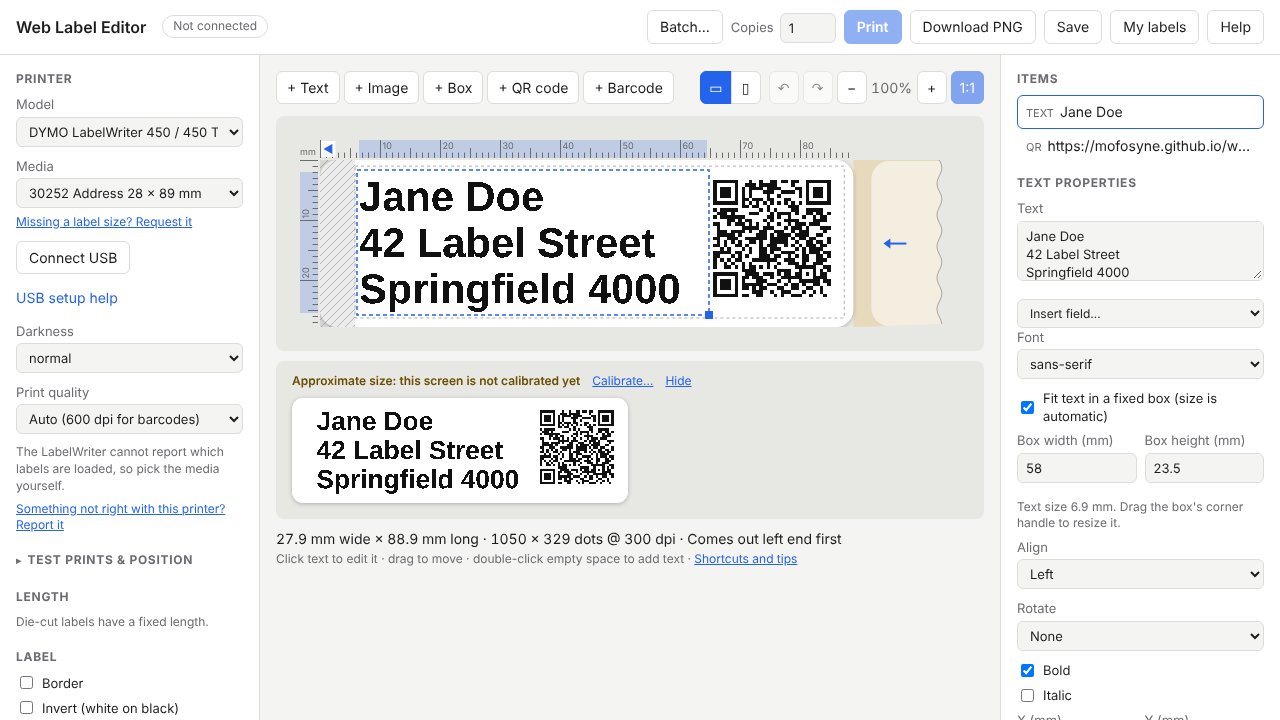
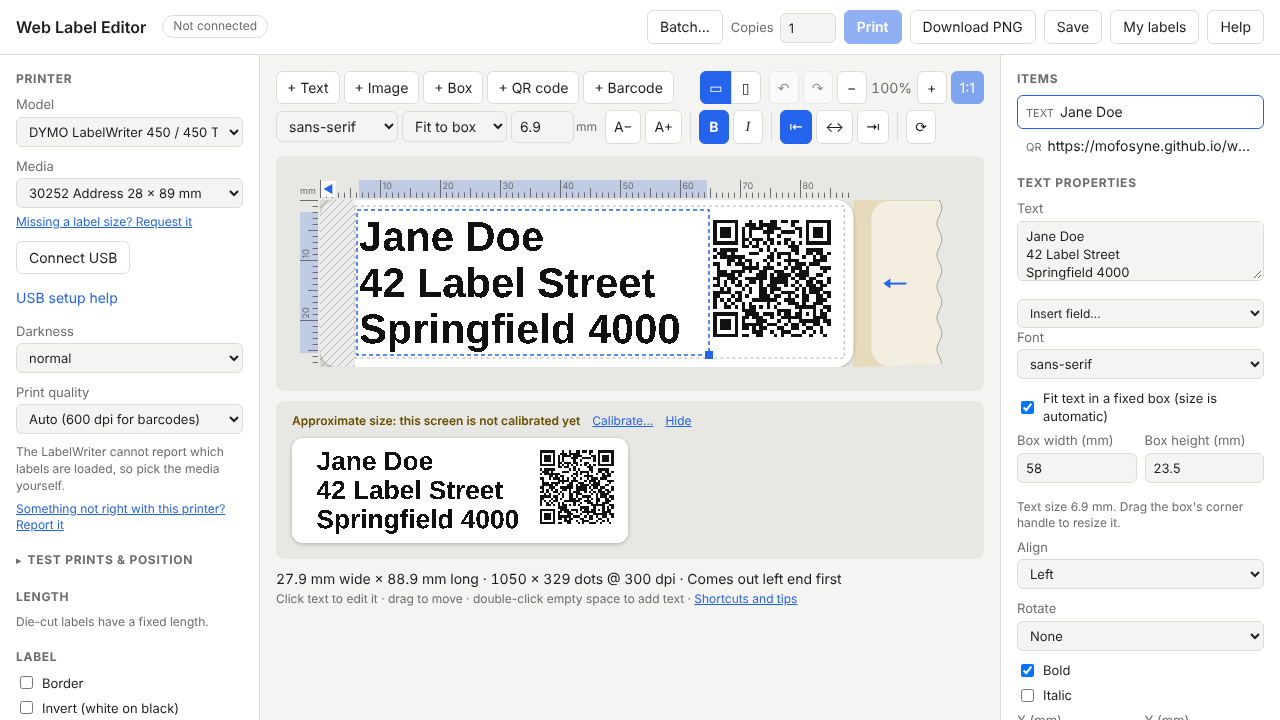
Warn on ink, not the font's line box; a DYMO-style text format bar
- Margin and cut-off warnings now use where items put ink: for text, each
  line's glyph extent (measureText's actual bounding box, turned with the
  text), not the font's line box, which keeps blank room above capitals
  and below the baseline. Capitals close to the edge no longer warn;
  descenders that cross it still do. Half a dot of slack for rounding.
- A format bar above the label, as in DYMO Label: font, Fit to box /
  Fixed size, size in mm, A− / A+, bold, italic, alignment and a quarter
  turn for the selected text. Always shown (greyed out without a text
  selected) so the layout doesn't jump; the right panel keeps everything.
  A size change on fitted text switches it to that fixed size where it is.

Claude-Session: https://claude.ai/code/session_01YQFkThD3TEfZZoGyfdA6sY

Changed region(s): [[0.2188, 0.1528, 0.75, 0.8556], [0.2188, 0.3361, 0.25, 0.3972]]

diff --git a/src/app.js b/src/app.js
@@ -385,6 +385,7 @@ function renderView(d = design, m = model(), med = medium(), { filled, adj, onAs
   }
 
   const bounds = d.items.map(() => null);
+  const inks = d.items.map(() => null);
   const textLayouts = d.items.map(() => null);
   const lanes = d.items.map(() => null);
   for (const s of slots) {
@@ -393,6 +394,8 @@ function renderView(d = design, m = model(), med = medium(), { filled, adj, onAs
       const i = d.items.indexOf(it);
       const b = s.r.bounds[j];
       bounds[i] = { ...b, x: b.x + s.ox, y: b.y + s.oy };
+      const ink = s.r.inks[j];
+      inks[i] = ink && { ...ink, x: ink.x + s.ox, y: ink.y + s.oy };
       lanes[i] = s.lane;
       const l = s.r.textLayouts[j];
       if (l) {
@@ -405,7 +408,7 @@ function renderView(d = design, m = model(), med = medium(), { filled, adj, onAs
   const hidden = d.items.length - shown.length;
   return {
     bitmap, display: upright ? stripToPage(bitmap) : bitmap, toDisplay, portrait: upright,
-    geo, slots, bounds, textLayouts, lanes, hidden, dpmm, mode: md,
+    geo, slots, bounds, inks, textLayouts, lanes, hidden, dpmm, mode: md,
   };
 }
 
@@ -468,6 +471,7 @@ function draw() {
   const med = medium();
   last = renderView(viewDesign(), m, med, { adj: adjust(), onAssetLoad: () => refresh(), laneItems: batchLaneItems() });
   updateDataBar();
+  syncFormatBar();
   const { display, dpmm, geo, slots, toDisplay } = last;
 
   if (zoomFit && !editing && !drag) editZoom = fitZoom(display, dpmm, last.portrait);
@@ -629,14 +633,15 @@ function draw() {
   $('dims').title = 'Hatched: the printer cannot print there. Dashed line: the safe area (from the label maker\'s driver); '
     + 'items past it still print, overprinting towards the label edge, but the die cut may trim them.'
     + (geo.top || geo.bottom || geo.right ? ' Tinted: the liner around the label, which an overprint border prints on.' : '');
-  // Font boxes include some blank space, so allow a little slack.
-  const slack = 0.3 * zoom;
+  // Checked against where items put ink (text: its glyphs, not the font's
+  // line box), with half a dot of slack for rounding.
+  const slack = 0.5 * scale;
   const outside = (b, a) => b.x * scale < a.x0 - slack || b.y * scale < a.y0 - slack
     || (b.y + b.h) * scale > a.y1 + slack || (b.x + b.w) * scale > a.x1 + slack;
-  const shownBounds = last.bounds.map((b, i) => (b ? { b, lane: last.lanes[i] } : null)).filter(Boolean);
+  const shownBounds = last.inks.map((b, i) => (b ? { b, lane: last.lanes[i] } : null)).filter(Boolean);
   const offLabel = shownBounds.some(({ b }) => outside(b, hard));
   // Name what is cut off, so it can be found and moved.
-  const cutOff = last.bounds.map((b, i) => (b && outside(b, hard) ? design.items[i] : null)).filter(Boolean);
+  const cutOff = last.inks.map((b, i) => (b && outside(b, hard) ? design.items[i] : null)).filter(Boolean);
   const kinds = { text: 'text', qr: 'QR code', barcode: 'barcode', image: 'image', box: 'box' };
   const short = (it) => {
     const s = it.type === 'text' ? it.text.split('\n')[0] : it.type === 'qr' || it.type === 'barcode' ? it.data : '';
@@ -2354,6 +2359,120 @@ function describe(item) {
   return `${item.w} × ${item.h} mm`;
 }
 
+// ---------- the text format bar ----------
+
+// Font, fit, size, bigger/smaller, bold, italic, alignment and turning for
+// the selected text, above the label as in DYMO Label. Always shown (greyed
+// out with no text selected) so the layout doesn't jump; built per
+// selection and kept in step by syncFormatBar() on every redraw.
+let formatFor = undefined;
+function buildFormatBar() {
+  const item = selected();
+  const text = item?.type === 'text' ? item : null;
+  if (formatFor === (text?.id ?? null) && $('format-bar').childElementCount) return syncFormatBar();
+  formatFor = text?.id ?? null;
+  const bar = $('format-bar');
+  const el = (tag, props = {}, ...kids) => {
+    const e = Object.assign(document.createElement(tag), props);
+    e.append(...kids);
+    return e;
+  };
+  const change = (fn) => () => {
+    const it = selected();
+    if (it?.type !== 'text') return;
+    fn(it);
+    undo.checkpoint();
+    refresh({ props: true });
+  };
+  const font = el('select', { ariaLabel: 'Font', title: 'Font' });
+  const fit = el('select', { ariaLabel: 'Text size', title: 'Fit to box: the text takes the largest size that fits its box' });
+  fit.append(new Option('Fit to box', 'fit'), new Option('Fixed size', 'fixed'));
+  const size = el('input', { type: 'number', step: 0.5, min: 0.5, ariaLabel: 'Size (mm)', title: 'Text size in mm' });
+  const button = (label, title, onClick, cls = '') => {
+    const b = el('button', { type: 'button', className: `icon ${cls}`, title, ariaLabel: title, textContent: label });
+    b.onclick = change(onClick);
+    return b;
+  };
+  font.onchange = change((it) => { it.font = font.value; });
+  fit.onchange = change((it) => toggleFit(it, fit.value === 'fit'));
+  size.onchange = change((it) => {
+    const v = parseFloat(size.value);
+    if (v > 0) { if (it.fit) toggleFit(it, false); it.size = round1(v); }
+  });
+  const step = (f) => (it) => {
+    if (it.fit) toggleFit(it, false);
+    it.size = Math.max(0.5, round1((it.size || 3) * f));
+  };
+  const turn = (it) => setRotation(it, ((quarterTurns(it) + 1) % 4) * 90);
+  bar.replaceChildren(
+    font, fit, size, el('span', { className: 'unit', textContent: 'mm' }),
+    button('A−', 'Smaller', step(1 / 1.15)),
+    button('A+', 'Bigger', step(1.15)),
+    el('span', { className: 'sep' }),
+    button('B', 'Bold', (it) => { it.bold = !it.bold; }, 'b'),
+    button('I', 'Italic', (it) => { it.italic = !it.italic; }, 'i'),
+    el('span', { className: 'sep' }),
+    ...[['left', '⇤', 'Align left'], ['center', '↔', 'Centre'], ['right', '⇥', 'Align right']].map(([v, label, title]) => {
+      const b = button(label, title, (it) => { it.align = v; });
+      b.dataset.align = v;
+      return b;
+    }),
+    el('span', { className: 'sep' }),
+    button('⟳', 'Turn a quarter (for vertical text and cable flags)', turn),
+  );
+  syncFormatBar();
+}
+
+// The format bar's values from the selected text (not the control in use).
+function syncFormatBar() {
+  const bar = $('format-bar');
+  const item = selected();
+  const text = item?.type === 'text' ? item : null;
+  if ((text?.id ?? null) !== formatFor) { buildFormatBar(); return; }
+  bar.classList.toggle('idle', !text);
+  for (const c of bar.querySelectorAll('select, input, button')) c.disabled = !text;
+  if (!text) return;
+  const [font, fit, size] = bar.querySelectorAll('select, input');
+  if (document.activeElement !== font) {
+    // The usual fonts, plus the text's own if it is another.
+    const fonts = [...new Set([...FONTS, text.font])];
+    if (font.options.length !== fonts.length) font.replaceChildren(...fonts.map((f) => new Option(f, f)));
+    font.value = text.font;
+  }
+  fit.value = text.fit ? 'fit' : 'fixed';
+  if (document.activeElement !== size) {
+    const l = last?.textLayouts[design.items.indexOf(text)];
+    size.value = String(round1(text.fit && l ? l.sizeMm : text.size));
+    size.title = text.fit ? 'Fitted to the box; typing a size switches to a fixed size' : 'Text size in mm';
+  }
+  for (const b of bar.querySelectorAll('button')) {
+    if (b.title === 'Bold') b.setAttribute('aria-pressed', String(!!text.bold));
+    if (b.title === 'Italic') b.setAttribute('aria-pressed', String(!!text.italic));
+    if (b.dataset.align) b.setAttribute('aria-pressed', String((text.align ?? 'left') === b.dataset.align));
+  }
+}
+
+// Switches a text between fitted to its box and a fixed size, keeping it
+// where it is and the size it shows.
+function toggleFit(item, on) {
+  const i = design.items.indexOf(item);
+  const l = last?.textLayouts[i];
+  const slot = last?.slots.find((sl) => sl.lane === last.lanes[i]);
+  if (on) {
+    const b = last?.bounds[i] ?? { w: 20 * last.dpmm, h: 5 * last.dpmm };
+    item.w = item.w ?? round1(b.w / last.dpmm);
+    item.h = item.h ?? round1(b.h / last.dpmm);
+    item.fit = true;
+    return;
+  }
+  if (l && slot && !quarterTurns(item)) {
+    item.size = round1(l.sizeMm);
+    item.x = round1((l.blockX - slot.ox) / last.dpmm);
+    item.y = round1((l.blockY - slot.oy) / last.dpmm);
+  }
+  item.fit = false;
+}
+
 function buildProps() {
   const list = $('item-list');
   list.replaceChildren(...design.items.map((item) => {
@@ -2377,6 +2496,7 @@ function buildProps() {
 
   const panel = $('item-props');
   const item = selected();
+  buildFormatBar();
   panel.replaceChildren();
   if (!item) return;
 

diff --git a/src/render.js b/src/render.js
@@ -165,6 +165,45 @@ export function itemBounds(ctx, item, dpmm) {
   return { x, y, w: 0, h: 0 };
 }
 
+// Where an item puts ink, in dots: for text, the glyphs' own extent, since
+// fonts leave room above capitals and below the baseline that is never
+// inked; other items fill their bounds. null for text with nothing to ink.
+export function itemInk(ctx, item, dpmm) {
+  if (item.type !== 'text') return itemBounds(ctx, item, dpmm);
+  const m = textLayout(ctx, item, dpmm);
+  ctx.font = fontString(item, m.px);
+  let x0 = Infinity;
+  let y0 = Infinity;
+  let x1 = -Infinity;
+  let y1 = -Infinity;
+  m.lines.forEach((line, i) => {
+    if (!line.trim()) return;
+    const t = ctx.measureText(line);
+    let dx = 0;
+    if (item.align === 'center') dx = (m.w - m.widths[i]) / 2;
+    else if (item.align === 'right') dx = m.w - m.widths[i];
+    const x = m.blockX + dx;
+    const base = m.blockY + i * m.lineH + m.ascent;
+    x0 = Math.min(x0, x - (t.actualBoundingBoxLeft ?? 0));
+    x1 = Math.max(x1, x + (t.actualBoundingBoxRight ?? m.widths[i]));
+    y0 = Math.min(y0, base - (t.actualBoundingBoxAscent ?? m.ascent));
+    y1 = Math.max(y1, base + (t.actualBoundingBoxDescent ?? 0));
+  });
+  if (x0 === Infinity) return null;
+  if (!m.rotate) return { x: x0, y: y0, w: x1 - x0, h: y1 - y0 };
+  // Turned text: the ink's corners turned about the box's centre.
+  const px = m.blockX + m.pivot.x;
+  const py = m.blockY + m.pivot.y;
+  const a = (m.rotate * Math.PI) / 180;
+  const pts = [[x0, y0], [x1, y0], [x0, y1], [x1, y1]].map(([x, y]) => [
+    px + (x - px) * Math.cos(a) - (y - py) * Math.sin(a),
+    py + (x - px) * Math.sin(a) + (y - py) * Math.cos(a),
+  ]);
+  const xs = pts.map((p) => p[0]);
+  const ys = pts.map((p) => p[1]);
+  return { x: Math.min(...xs), y: Math.min(...ys), w: Math.max(...xs) - Math.min(...xs), h: Math.max(...ys) - Math.min(...ys) };
+}
+
 function drawText(ctx, item, dpmm) {
   const m = textLayout(ctx, item, dpmm);
   ctx.save();
@@ -358,9 +397,10 @@ export function renderDesign(design, model, medium, onAssetLoad, opts = {}) {
   if (design.invert) for (let i = 0; i < data.length; i++) data[i] ^= 1;
 
   const bounds = items.map((item) => itemBounds(ctx, item, dpmm));
+  const inks = items.map((item) => itemInk(ctx, item, dpmm));
   const textLayouts = items.map((item) => (item.type === 'text' ? textLayout(ctx, item, dpmm) : null));
   const surface = { width: W, height: H, data };
-  return { bitmap: portrait ? pageToStrip(surface) : surface, length, bounds, textLayouts, dpmm };
+  return { bitmap: portrait ? pageToStrip(surface) : surface, length, bounds, inks, textLayouts, dpmm };
 }
 
 // Turn a 1-bit bitmap into a canvas, e.g. for preview or PNG export.

diff --git a/style.css b/style.css
@@ -193,6 +193,17 @@ dialog.help .row { justify-content: flex-end; margin: 0; }
 .toolbar .tools { display: inline-flex; gap: 4px; align-items: center; white-space: nowrap; }
 .toolbar .icon { padding: 6px 8px; min-width: 30px; }
 .toolbar .seg + .icon { margin-left: 4px; }
+/* The text format bar, as in DYMO Label: the everyday text settings above
+   the label; the panel on the right has the rest. */
+.format-bar { margin-top: -6px; }
+.format-bar select { width: auto; max-width: 150px; }
+.format-bar .unit { color: var(--muted); font-size: 12px; margin: 0 4px 0 -2px; }
+.format-bar input[type="number"] { width: 4.5em; }
+.format-bar button[aria-pressed="true"] { background: var(--accent); color: var(--accent-text); border-color: var(--accent); }
+.format-bar .b { font-weight: 700; }
+.format-bar .i { font-style: italic; font-family: serif; }
+.format-bar .sep { width: 1px; align-self: stretch; background: var(--border); margin: 2px 4px; }
+.format-bar.idle { opacity: .55; }
 #zoom-label { min-width: 42px; text-align: center; color: var(--muted); font-variant-numeric: tabular-nums; }
 
 .canvas-wrap {

diff --git a/src/about.js b/src/about.js
@@ -113,7 +113,8 @@ function tips() {
         + 'double-click empty space to add text.')),
     el('h3', { textContent: 'Layout' }),
     el('ul', {},
-      li(b('Hatched border'), ': where the printer cannot put ink at all. Anything there is cut off and flagged.'),
+      li(b('Hatched border'), ': where the printer cannot put ink at all. Anything there is cut off and flagged; '
+        + 'text counts where its letters are, not the blank space a font keeps above and below them.'),
       li(b('Dashed line'), ': the safe area. Items past it still print (overprinting towards the label edge), but the '
         + 'die cut may trim them.'),
       li(b('Portrait'), ' (▭ ▯ in the toolbar) lets you design the label standing upright; it is turned for printing. '

diff --git a/index.html b/index.html
@@ -114,6 +114,7 @@
         <button id="zoom-actual" class="icon" aria-label="Actual size">1:1</button>
         </span>
       </div>
+      <div id="format-bar" class="toolbar format-bar" role="toolbar" aria-label="Text format"></div>
       <div class="canvas-wrap" id="canvas-wrap">
         <div class="ruled">
           <span class="ruler-corner">mm</span>

diff --git a/README.md b/README.md
@@ -194,7 +194,9 @@ The app has its own welcome page and **Help** with the same information.
   box, turned 90°, 180° or 270° for cable flags and vertical text), QR codes, barcodes (Code 128, EAN-13, UPC-A), images (threshold or
   dithering) and boxes. Drag to move, corner handle to resize.
 - **Editing:** click selected text (or double-click it, or press Enter / F2)
-  to edit it in place, right on the label; double-click empty space to add
+  to edit it in place, right on the label; the bar above the label sets its
+  font, fit or size (A− / A+), bold, italic, alignment and turning, as in
+  DYMO Label; double-click empty space to add
   text; Ctrl+C / Ctrl+X / Ctrl+V for items (and pasting text or images
   from other apps); Ctrl+D duplicates; arrow keys nudge; Ctrl+Z / Ctrl+Shift+Z
   (or Ctrl+Y) undo and redo, with a drag or a burst of typing as one step.
